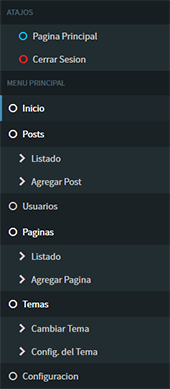
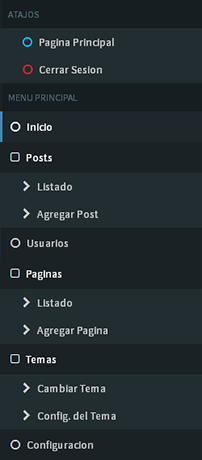
Actualización doc

diff --git a/doc/index.html b/doc/index.html
@@ -238,7 +238,7 @@ RewriteRule ^(.*)$ index.php?route=$1 [QSA,NC,L] </code></pre>
       <span class="note">NOTA: Es importante destacar que solo se pueden crear usuarios con privilegio igual o inferior a la del usuario actual.</span>
     </p>
     <p>
-      Para crear un nuevo usuario, simplemente haz click en el botón “<b>crear usuario</b>” <img src="imgs/img16.png" alt="Boton Nuevo usuario"/> y se mostrara la pagina de creacion de usuarios.
+      Para crear un nuevo usuario, simplemente haz click en el botón “<b>Nuevo usuario</b>” <img src="imgs/img16.png" alt="Boton Nuevo usuario"/> para ir a la pagina de creacion de usuarios.
     </p>
     <img src="imgs/img17.png" alt="Pagina de creacion de usuarios"/>
     <p>
@@ -260,6 +260,7 @@ RewriteRule ^(.*)$ index.php?route=$1 [QSA,NC,L] </code></pre>
     <p>
       <span class="note">NOTA: Una vez modificada el usuario NO será posible revertir los cambios realizados.</span>
     </p>
+
   </body>
     <script src="jquery.js"></script>
   <script>

diff --git a/vistas/admin/css/admin.css b/vistas/admin/css/admin.css
@@ -232,9 +232,14 @@ header ul li img{
 #menu li i{
 	margin:auto 8px;
 }
+#menu li.active{
+	box-shadow: inset 3px 0px #3c8dbc;
+}
 #menu li.active,#menu li:hover{
 	background-color: #1e282c;
 	color: #fff;
+}
+#menu li.shadow:hover{
 	box-shadow: inset 3px 0px #3c8dbc;
 }
 #menu a:link,#menu a:visited{

diff --git a/vistas/admin/index.php b/vistas/admin/index.php
@@ -96,14 +96,14 @@
 			}
 			if($value['padre'] == "1"){
 				if(empty($value['archivo'])){
-					echo'<li class="padre '.$activo.'"><i class="fa fa-circle-o"></i>'.$value['titulo'].'</li>';
+					echo'<li class="padre '.$activo.' "><i class="fa fa-square-o"></i>'.$value['titulo'].'</li>';
 				}
 				else{
-					echo'<a href="'.$conf->getCfg("url").'admin/'.$value['id'].'"><li class="padre '.$activo.'"><i class="fa fa-circle-o"></i>'.$value['titulo'].'</li></a>';
+					echo'<a href="'.$conf->getCfg("url").'admin/'.$value['id'].'"><li class="padre shadow '.$activo.'"><i class="fa fa-circle-o"></i>'.$value['titulo'].'</li></a>';
 				}
 			}
 			else{
-				echo'<a href="'.$conf->getCfg("url").'admin/'.$value['id'].'"><li class="'.$activo.'"><i class="fa fa-chevron-right"></i>'.$value['titulo'].'</li></a>';
+				echo'<a href="'.$conf->getCfg("url").'admin/'.$value['id'].'"><li class="shadow '.$activo.'"><i class="fa fa-chevron-right"></i>'.$value['titulo'].'</li></a>';
 			}
 		}
 		?>

diff --git a/vistas/admin/users.php b/vistas/admin/users.php
@@ -107,8 +107,8 @@ else if(isset($_POST['editsave'])){
 else if(isset($_POST['nuevo'])){
 	$user = new Usuario();
 	$imagen = new Imagen();
-	echo'<h1>Editar usuario</h1>
-	<p>Rellene el formulario para editar la informacion del usuario.</p>
+	echo'<h1>Nuevo usuario</h1>
+	<p>Rellene el formulario para crear un nuevo usuario.</p>
 	<p>Los campos marcados con <span class="red">*</span> son obligatorios</p>
 	<section id="lista">
 	<article>
